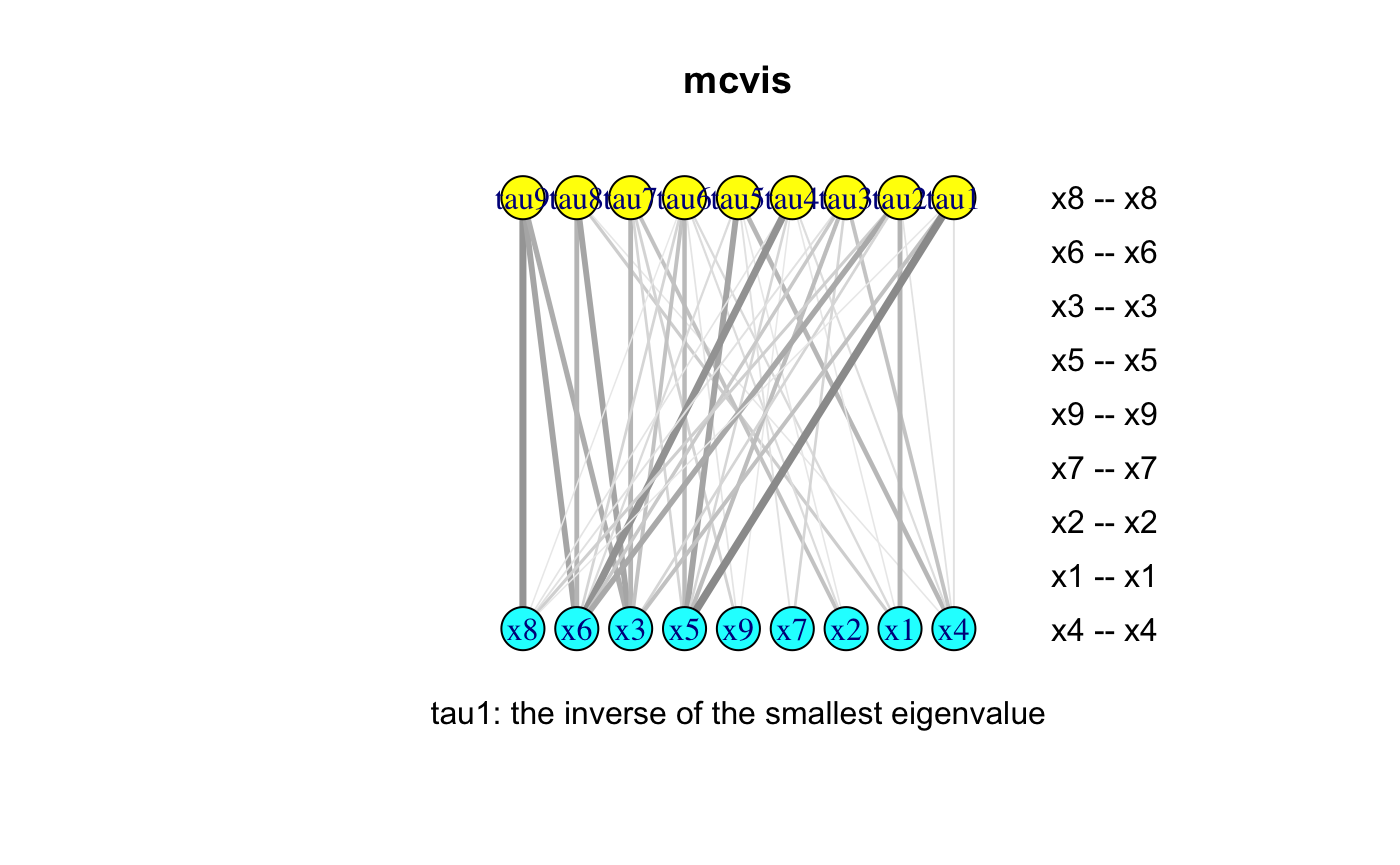
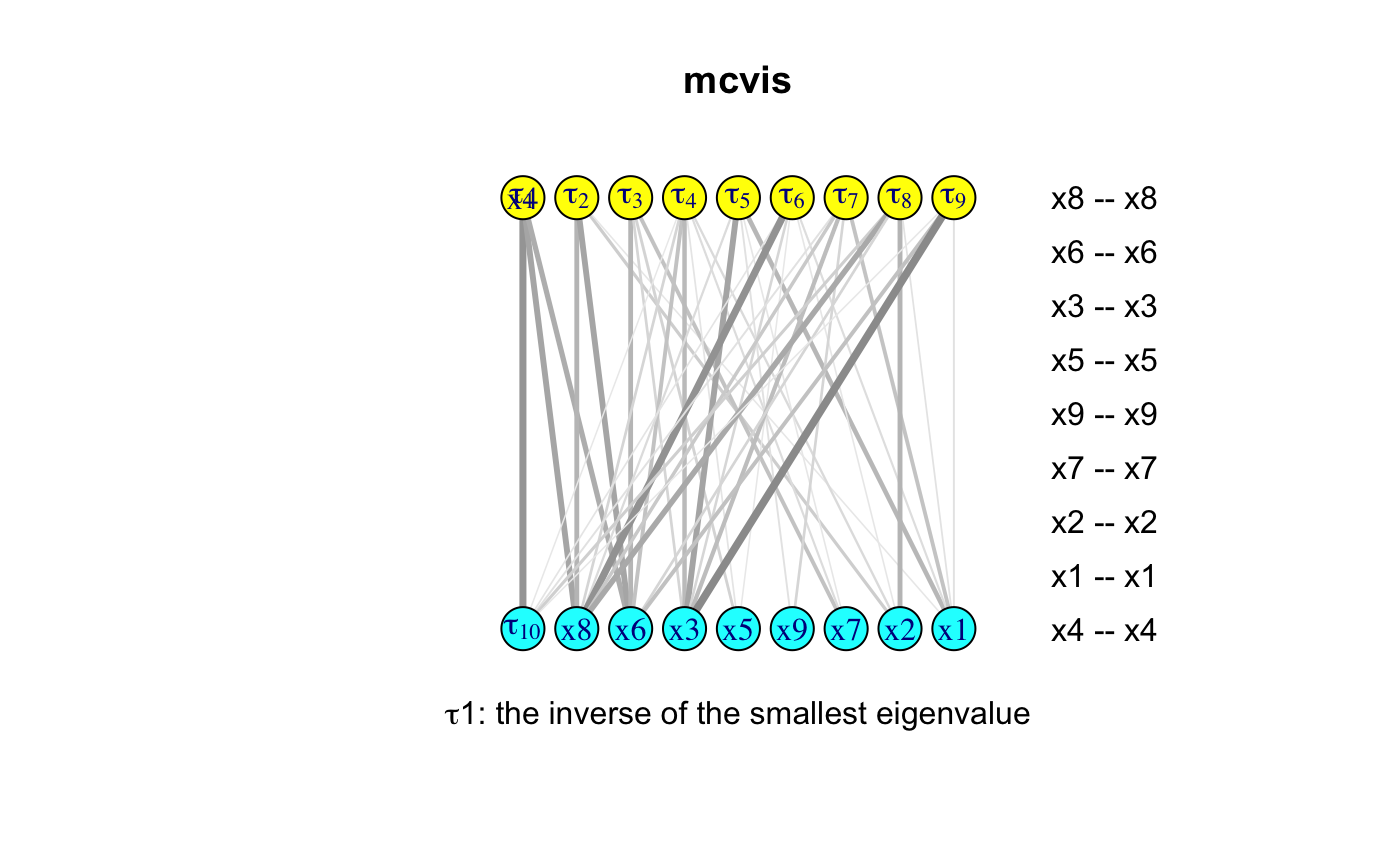
bug fix for igraph plot

diff --git a/docs/articles/mcvis.html b/docs/articles/mcvis.html
@@ -134,7 +134,7 @@
 <a class="sourceLine" id="cb5-14" title="14"><span class="co">#&gt; [1] stats     graphics  grDevices utils     datasets  methods   base     </span></a>
 <a class="sourceLine" id="cb5-15" title="15"><span class="co">#&gt; </span></a>
 <a class="sourceLine" id="cb5-16" title="16"><span class="co">#&gt; other attached packages:</span></a>
-<a class="sourceLine" id="cb5-17" title="17"><span class="co">#&gt; [1] mplot_1.0.3 mcvis_0.2.9</span></a>
+<a class="sourceLine" id="cb5-17" title="17"><span class="co">#&gt; [1] mplot_1.0.3  mcvis_0.2.10</span></a>
 <a class="sourceLine" id="cb5-18" title="18"><span class="co">#&gt; </span></a>
 <a class="sourceLine" id="cb5-19" title="19"><span class="co">#&gt; loaded via a namespace (and not attached):</span></a>
 <a class="sourceLine" id="cb5-20" title="20"><span class="co">#&gt;  [1] tidyselect_0.2.5     xfun_0.7             purrr_0.3.2         </span></a>
